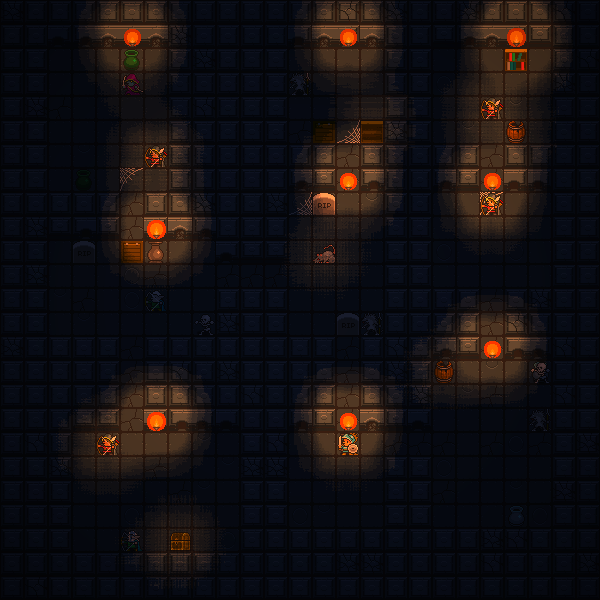
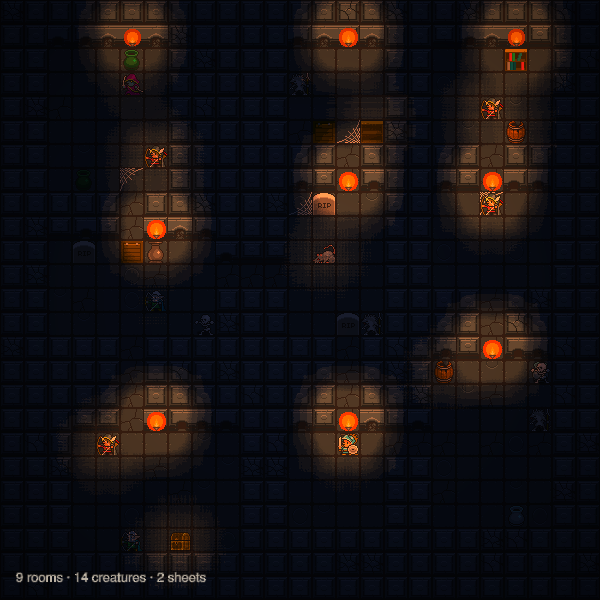
feat(hazumi): give a scene an overlay the shader chain cannot touch
Max: "the text was affected by the lighting, so the UI is sensitive to shaders?
that's not great." It is not, and it was.

The chain runs over the whole frame, so anything drawn on top of the world went
through the same passes as the world: dimmed by its lighting, warped by its
warp, bloomed by its bloom. The dungeon found it immediately — its caption came
out at an eighth of the brightness it was drawn with, and there was nowhere to
move it to. I took the caption off the scene rather than fix it, which was the
wrong call and is reversed here.

A scene may now declare `overlay(alpha, ctx)` beside `draw`. It is a second
command stream, rendered after the chain has presented, straight onto the canvas
and without clearing it. `Renderer.render` grew an optional `{ passes: false }`
for it; a backend with no chain ignores the flag, since for it every stream is
already drawn the same way, so a scene written this way looks the same on all
four backends.

The dungeon's caption is back, at full brightness over a dark floor.

diff --git a/packages/hazumi/test/app.test.ts b/packages/hazumi/test/app.test.ts
@@ -1,7 +1,7 @@
 import { afterEach, beforeEach, describe, expect, test } from "bun:test";
 import { record, type RecordedCommand } from "@hazumi/backend-headless";
 import { createPluginHost, definePlugin } from "@hazumi/core";
-import type { CommandBuffer, Renderer, ShaderPass } from "@hazumi/graphics";
+import type { CommandBuffer, RenderOptions, Renderer, ShaderPass } from "@hazumi/graphics";
 import { ShaderPassesUnavailableError, TextMeasurementUnavailableError, start } from "../src/app";
 import { PixelAccessUnavailableError, Pixels } from "../src/pixels";
 import { background, circle, fill, measureText, textSize, textWidth } from "../src/draw";
@@ -51,6 +51,8 @@ class TestCanvas extends EventTarget {
 interface RuntimeHarness {
   readonly canvas: HTMLCanvasElement;
   readonly frames: RecordedCommand[][];
+  /** The options each `render` was called with, in the same order as frames. */
+  readonly renderOptions: (RenderOptions | undefined)[];
   readonly viewports: Array<readonly [number, number]>;
   readonly renderer: Renderer;
   runFrame: (nowMs: number) => void;
@@ -106,10 +108,12 @@ function harness(): RuntimeHarness {
   const fakeCanvas = new TestCanvas();
   const canvas = fakeCanvas as unknown as HTMLCanvasElement;
   const frames: RecordedCommand[][] = [];
+  const renderOptions: (RenderOptions | undefined)[] = [];
   const viewports: Array<readonly [number, number]> = [];
   const renderer: Renderer = {
-    render: (buffer: CommandBuffer): void => {
+    render: (buffer: CommandBuffer, options?: RenderOptions): void => {
       frames.push(record(buffer));
+      renderOptions.push(options);
     },
     setViewport: (width: number, height: number): void => {
       viewports.push([width, height]);
@@ -127,6 +131,7 @@ function harness(): RuntimeHarness {
   return {
     canvas,
     frames,
+    renderOptions,
     viewports,
     renderer,
     runFrame: (nowMs: number): void => {
@@ -1503,6 +1508,50 @@ describe("backend capability contract", () => {
     h.runFrame(0);
     expect(installed).toEqual([[pass]]);
     expect(times.length).toBeGreaterThan(0);
+    app.stop();
+  });
+});
+
+describe("overlay", () => {
+  test("draws as its own stream, after the frame and outside the chain", async () => {
+    const h = harness();
+    const seen: string[] = [];
+    const app = start(
+      { backend: () => h.renderer, canvas: h.canvas },
+      {
+        draw: (): void => {
+          seen.push("world");
+          fill("white");
+          circle(10, 10, 4);
+        },
+        overlay: (): void => {
+          seen.push("overlay");
+          textSize(12);
+          fill("white");
+        },
+      },
+    );
+
+    await app.ready;
+    h.runFrame(0);
+
+    // Two streams, in that order, and only the second one opts out of the
+    // chain — post-processing belongs to the world, not to the furniture.
+    expect(seen).toEqual(["world", "overlay"]);
+    expect(h.frames).toHaveLength(2);
+    expect(h.renderOptions).toEqual([undefined, { passes: false }]);
+    expect(h.frames[0]?.some((command) => command.op === "circle")).toBe(true);
+    expect(h.frames[1]?.some((command) => command.op === "circle")).toBe(false);
+    app.stop();
+  });
+
+  test("a scene without one renders a single stream", async () => {
+    const h = harness();
+    const app = start({ backend: () => h.renderer, canvas: h.canvas }, { draw: (): void => {} });
+    await app.ready;
+    h.runFrame(0);
+    expect(h.frames).toHaveLength(1);
+    expect(h.renderOptions).toEqual([undefined]);
     app.stop();
   });
 });

diff --git a/packages/hazumi/src/app.ts b/packages/hazumi/src/app.ts
@@ -84,6 +84,23 @@ export type SceneDraw<Api extends object = Record<never, never>> = (
 export interface Scene<Api extends object = Record<never, never>> {
   readonly update?: SceneUpdate<Api>;
   readonly draw: SceneDraw<Api>;
+  /**
+   * Drawn after the shader chain, straight onto the canvas.
+   *
+   * Post-processing belongs to the world. A heads-up display that goes through
+   * the same chain is dimmed by the world's lighting, warped by its warp and
+   * bloomed by its bloom — a scene lit by a multiply pass finds this at once,
+   * because its caption comes out at a fraction of the brightness it was drawn
+   * with. Anything that belongs to the reader rather than to the world goes
+   * here: a score, a control legend, a debug overlay.
+   *
+   * It is a second stream, so it costs a second decode. Draw the world in
+   * `draw` and only the furniture here.
+   *
+   * A backend without a chain draws it exactly as it draws everything else, so
+   * a scene written this way looks the same on all four.
+   */
+  readonly overlay?: SceneDraw<Api>;
   /** Release resources owned by this scene before it is replaced or stopped. */
   readonly dispose?: (context: HazumiContext & Api) => void;
 }
@@ -452,6 +469,24 @@ export function start<Api extends object = Record<never, never>>(
       endFrame();
       if (supportsPasses(renderer)) renderer.setTime(state.t);
       renderer.render(buffer);
+
+      const overlay = activeScene?.overlay;
+      if (overlay !== undefined) {
+        // A second stream, drawn straight to the canvas over what the chain
+        // just presented. It does not clear, because nothing in it calls
+        // background() — and if something did, it would be asking to paint over
+        // the frame, which is its right.
+        buffer.reset();
+        beginFrame();
+        const previousOverlay = enterContext(sceneContext);
+        try {
+          if (!stopped) overlay(clock.alpha(), sceneContext);
+        } finally {
+          restoreContext(previousOverlay);
+        }
+        endFrame();
+        if (!stopped) renderer.render(buffer, { passes: false });
+      }
     } catch (error) {
       // Stop before reporting: a throwing scene throws every frame, and the
       // loop would otherwise bury the first error under sixty a second.

diff --git a/examples/dungeon.ts b/examples/dungeon.ts
@@ -30,19 +30,19 @@
  * arithmetic a lighting model does and the reason the frame has somewhere dark
  * to be.
  *
- * There is no caption on this one, and that is the light's doing rather than
- * an oversight. The composite multiplies the whole frame, so anything drawn
- * into the scene is lit along with it — a line of text in an unlit corridor
- * comes out at an eighth of its brightness. A scene with a post chain has no
- * unlit layer to put a label in, which is worth knowing before reaching for one.
+ * The caption is in `overlay` rather than in `draw`, and that is the light's
+ * doing. The composite multiplies the whole frame, so a line of text sitting in
+ * an unlit corridor came out at an eighth of the brightness it was drawn with.
+ * `overlay` runs after the chain has presented, which is where anything meant
+ * for the reader rather than for the world belongs.
  *
  * Art: Oryx Design Lab, 16-bit fantasy. See examples/assets/CREDITS.md.
  */
 import { loadImage, spritesheet, tilemap } from "hazumi/assets";
 import { start, type HazumiApp } from "hazumi/app";
 import { webgl2 } from "hazumi/backends/webgl2";
-import { background, ellipse, fill, image, noStroke } from "hazumi/draw";
-import { camera, random, setPasses, time } from "hazumi/scene";
+import { background, ellipse, fill, image, noStroke, text, textSize } from "hazumi/draw";
+import { camera, random, screen, setPasses, time } from "hazumi/scene";
 
 const TILE = 24;
 const COLUMNS = 25;
@@ -512,6 +512,16 @@ export function dungeon(parent: HTMLElement): HazumiApp {
               TILE,
             );
           }
+        },
+
+        overlay: (): void => {
+          fill("oklch(0.9 0.03 80 / 0.8)");
+          textSize(13);
+          text(
+            `${floor.rooms.length} rooms · ${floor.creatures.length} creatures · 2 sheets`,
+            16,
+            screen.height - 18,
+          );
         },
       };
     },

diff --git a/packages/graphics/src/renderer.ts b/packages/graphics/src/renderer.ts
@@ -69,9 +69,23 @@ export interface TextMetrics {
  * only way to learn that implementing `setPasses` unlocks post-processing was
  * to read the runtime's source.
  */
+/** How one call to `render` should treat the post-processing chain. */
+export interface RenderOptions {
+  /**
+   * Run the shader chain over this stream. Defaults to true.
+   *
+   * False draws straight to the canvas without clearing it, which is what an
+   * overlay wants: post-processing belongs to the world, and a heads-up display
+   * that goes through the same chain is dimmed by the world's lighting, warped
+   * by its warp and bloomed by its bloom. A backend without a chain may ignore
+   * this — for it, every stream is already drawn the same way.
+   */
+  readonly passes?: boolean;
+}
+
 export interface Renderer {
   /** Draw one frame from the command stream. */
-  render: (buffer: CommandBuffer) => void;
+  render: (buffer: CommandBuffer, options?: RenderOptions) => void;
   /** Called on construction and whenever the canvas is resized. */
   setViewport: (width: number, height: number) => void;
   /** Read physical canvas pixels, when the backend is raster-based. */

diff --git a/packages/backend-webgl2/src/renderer.ts b/packages/backend-webgl2/src/renderer.ts
@@ -16,6 +16,7 @@ import {
   scaleAffine,
   scaleFactor,
   translateAffine,
+  type RenderOptions,
 } from "@hazumi/graphics";
 import { mat4 } from "@hazumi/math";
 import { BatchList, Pipeline } from "./batch";
@@ -522,7 +523,7 @@ export class Webgl2Renderer {
     return this.#gl;
   }
 
-  render(buffer: CommandBuffer): void {
+  render(buffer: CommandBuffer, options?: RenderOptions): void {
     const gl = this.#gl;
     this.#drawCalls = 0;
     this.#count = 0;
@@ -544,7 +545,9 @@ export class Webgl2Renderer {
     const batches = this.#batches.finish();
 
     // With a chain, the scene renders into a target instead of the canvas.
-    const usePasses = this.#chain.length > 0;
+    // An overlay opts out: it is drawn after the chain has already presented,
+    // straight onto the canvas, and must not be put through it a second time.
+    const usePasses = this.#chain.length > 0 && options?.passes !== false;
     if (usePasses) {
       const targets = this.#ensureTargets(gl);
       targets.reset();

diff --git a/packages/graphics/src/index.ts b/packages/graphics/src/index.ts
@@ -27,6 +27,7 @@ export type {
   BackendFactory,
   PixelData,
   ShaderPass,
+  RenderOptions,
   FrameStats,
   TextMetrics,
 } from "./renderer";

diff --git a/.changeset/scene-overlay.md b/.changeset/scene-overlay.md
@@ -1,0 +1,23 @@
+---
+"hazumi": minor
+"@hazumi/graphics": minor
+"@hazumi/backend-webgl2": minor
+---
+
+`Scene.overlay` — drawing that the shader chain does not touch.
+
+Post-processing belongs to the world. Until now it also belonged to everything
+drawn on top of it, because the chain runs over the whole frame: a heads-up
+display went through the same passes as the scene, so it was dimmed by the
+world's lighting, warped by its warp and bloomed by its bloom. A scene lit by a
+multiply pass finds this immediately — its caption comes out at a fraction of
+the brightness it was drawn with, and there is no layer to move it to.
+
+A scene may now declare `overlay(alpha, ctx)` alongside `draw`. It is a second
+command stream, rendered after the chain has presented and straight onto the
+canvas. Anything meant for the reader rather than for the world goes there: a
+score, a control legend, a debug readout.
+
+`Renderer.render` takes an optional second argument for this, `{ passes: false }`.
+A backend with no chain can ignore it — for it every stream is already drawn the
+same way — so a scene written this way looks identical on all four.
